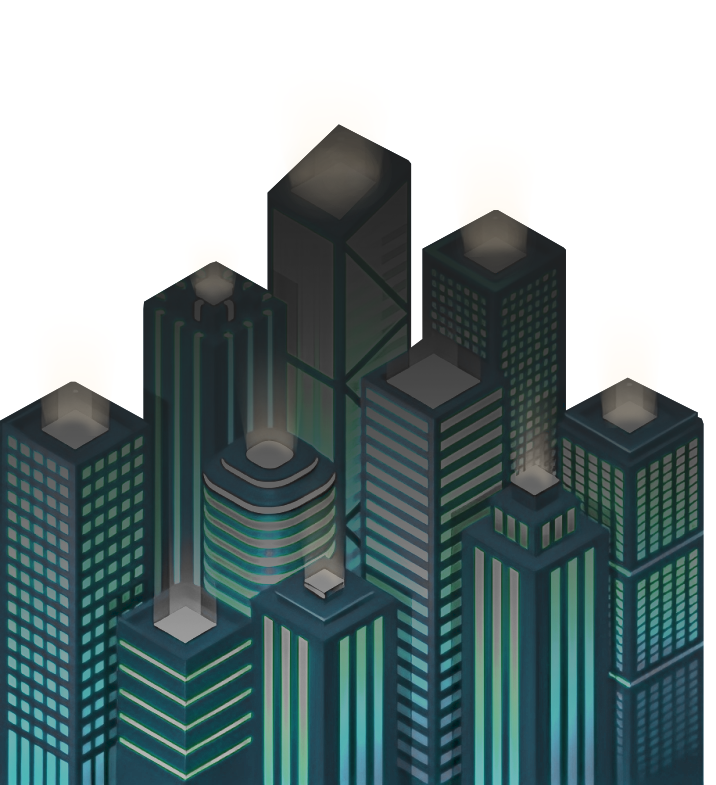
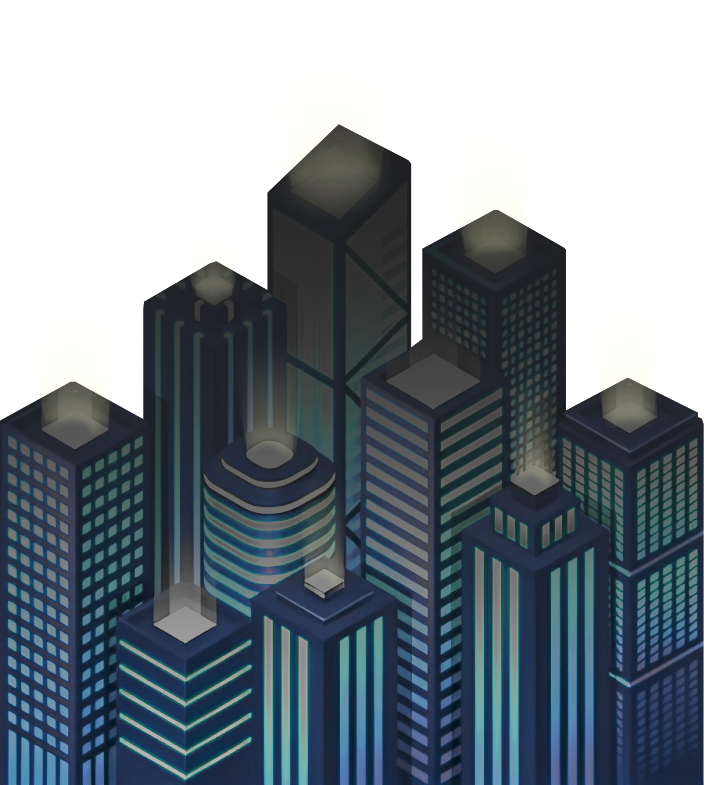
portafolio

diff --git a/styles.css b/styles.css
@@ -27,7 +27,7 @@
       bottom: 0;
       right:  0;
       z-index: 0;
-      filter: saturate(.3);
+      filter: saturate(.5);
       /* opacity: 0.9; */
       animation: zoom 45s infinite linear;
     }
@@ -959,7 +959,7 @@
     }
     .forma-projects:hover{
       background-color: #000000;
-      background-image: linear-gradient(147deg, #466174 0%, #1728448a 74%);
+      background-image: linear-gradient(147deg, #7895a9 0%, #1728448a 74%);
       box-shadow: 0 0 20px rgba(38, 150, 232, 0.1),
       0 0 60px rgba(38, 150, 232, 0.1),
       0 0 100px rgba(38, 150, 232, 0.1);
